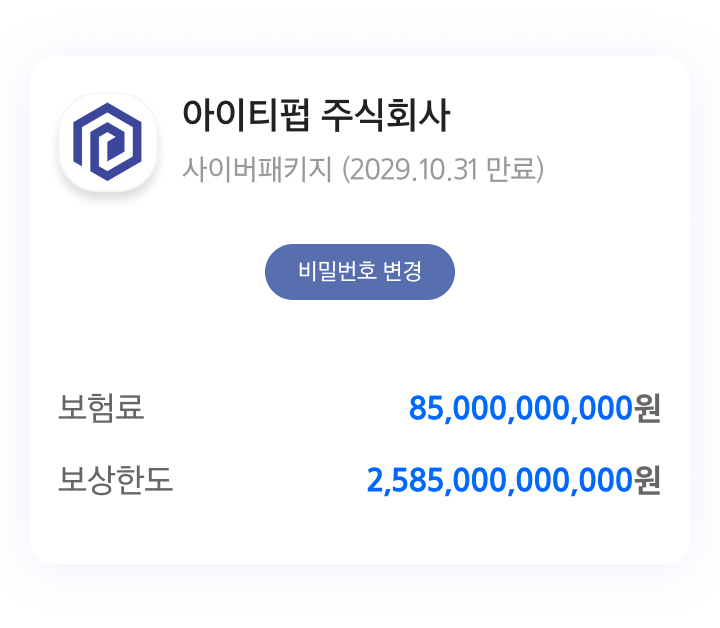
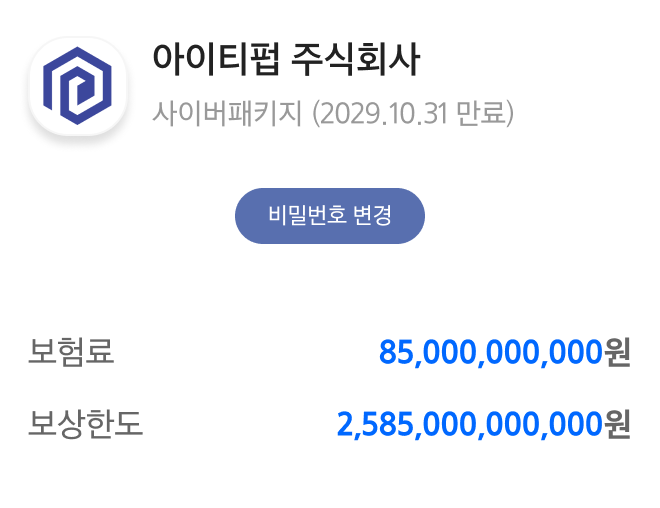
모바일 css 변경

diff --git a/pages/sub/my-page.html b/pages/sub/my-page.html
@@ -36,7 +36,7 @@
                 <div class="inner">
                     <div class="d-flex flex-col mt-30" style="gap: 30px; padding-bottom: 10rem">
                         <button onclick="window.location.href='./change-password.html'">
-                            <img class="w-100 fade-in" src="../../assets/images/mypage_detail_1.png" alt="" style="box-shadow: 0 2px 30px 0 rgba(73, 100, 210, 0.1)" />
+                            <img class="w-100 fade-in" src="../../assets/images/mypage_detail_1.png" alt="" style="border-radius: 12px; overflow: hidden; box-shadow: 0 2px 30px 0 rgba(73, 100, 210, 0.1)" />
                         </button>
                         <div class="d-flex flex-col g-10">
                             <img class="w-100 fade-in" src="../../assets/images/mypage_detail_2.svg" alt="" />
